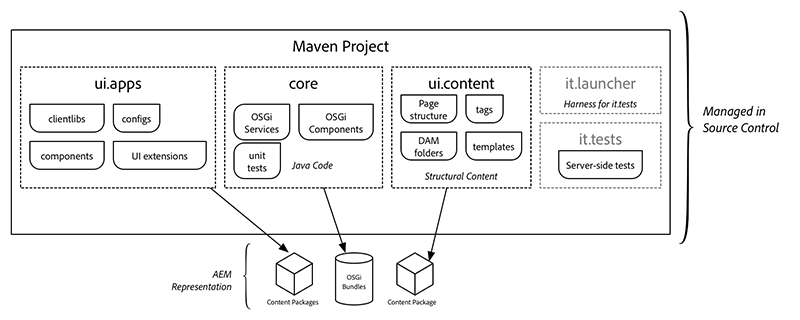
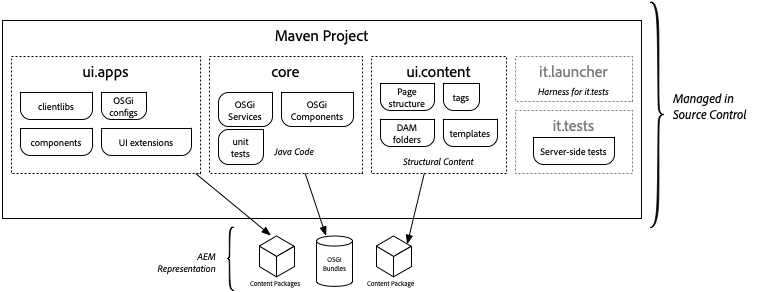
small updates to fix links to helpx and clarify diagram (#201)

Changed region(s): [[0.0, 0.0, 1.0, 0.9863]]

diff --git a/help/getting-started-wknd-tutorial-develop/style-system.md b/help/getting-started-wknd-tutorial-develop/style-system.md
@@ -31,7 +31,7 @@ View the finished code on [GitHub](https://github.com/adobe/aem-guides-wknd) or 
 
 ## Article Template Planning {#component-planning}
 
-In this chapter we will use the [Style System feature](https://helpx.adobe.com/experience-manager/kt/sites/using/style-system-feature-video-use.html) and [Editable Templates](https://helpx.adobe.com/experience-manager/6-4/sites/developing/using/page-templates-editable.html) to create a unified look and feel for the Article Template. To start, we will identify areas of the article mockup that will map to AEM components.
+In this chapter we will use the [Style System feature](https://docs.adobe.com/content/help/en/experience-manager-learn/sites/page-authoring/style-system-feature-video-use.html) and [Editable Templates](https://helpx.adobe.com/experience-manager/6-4/sites/developing/using/page-templates-editable.html) to create a unified look and feel for the Article Template. To start, we will identify areas of the article mockup that will map to AEM components.
 
 ![component planning](assets/chapter-4/wknd-site-component-mappingv2.png)
 
@@ -50,7 +50,7 @@ The [Style System](https://helpx.adobe.com/experience-manager/6-3/release-notes/
 
 The general idea with the Style System is that authors can choose various styles of how a component should look. The "styles" are backed by additional CSS classes that are injected into the outer div of a component. In the client libraries CSS rules are added based on these style classes so that the component changes appearance.
 
-You can find [detailed documentation for Style System here.](https://helpx.adobe.com/experience-manager/6-3/release-notes/style-system-fp.html) There is also a great [video overview for using the Style System](https://helpx.adobe.com/experience-manager/kt/sites/using/style-system-feature-video-use.html).
+You can find [detailed documentation for Style System here.](https://helpx.adobe.com/experience-manager/6-3/release-notes/style-system-fp.html) There is also a great [video overview for using the Style System](https://docs.adobe.com/content/help/en/experience-manager-learn/sites/page-authoring/style-system-feature-video-use.html).
 
 ## Title Component {#title-component}
 
@@ -555,7 +555,7 @@ We can use the Style System with the Layout Container to create a new, **fixed-w
 
 ## Content Fragment Component {#content-fragment}
 
-For the article body we will leverage [AEM Content Fragments](https://helpx.adobe.com/experience-manager/6-5/assets/using/content-fragments.html). Content Fragments are de-coupled from the presentation layer and promote reuse of content across channels. The editorial UI of Content Fragments lends itself to working with large amounts of text. We will add a component to the WKND application to be able to reference Content Fragments into an article page. To view an [overview of Content Fragments click here.](https://helpx.adobe.com/experience-manager/kt/sites/using/content-fragments-feature-video-use.html)
+For the article body we will leverage [AEM Content Fragments](https://helpx.adobe.com/experience-manager/6-5/assets/using/content-fragments.html). Content Fragments are de-coupled from the presentation layer and promote reuse of content across channels. The editorial UI of Content Fragments lends itself to working with large amounts of text. We will add a component to the WKND application to be able to reference Content Fragments into an article page. To view an [overview of Content Fragments click here.](https://docs.adobe.com/content/help/en/experience-manager-learn/sites/content-fragments/content-fragments-feature-video-use.html)
 
 >[!NOTE]
 >

diff --git a/help/getting-started-wknd-tutorial-develop/project-setup.md b/help/getting-started-wknd-tutorial-develop/project-setup.md
@@ -32,7 +32,7 @@ The following is required:
     * [AEM 6.4.2+](https://helpx.adobe.com/experience-manager/6-4/release-notes/sp-release-notes.html)
 4. [Eclipse](https://helpx.adobe.com/experience-manager/6-5/sites/developing/using/aem-eclipse.html) or other IDE
 
-For more information see: [Set up a Local AEM Development Environment](https://helpx.adobe.com/experience-manager/kt/platform-repository/using/local-aem-dev-environment-article-setup.html).
+For more information see: [Set up a Local AEM Development Environment](https://docs.adobe.com/content/help/en/experience-manager-learn/foundation/development/set-up-a-local-aem-development-environment.html).
 
 ## Objective {#objective}
 
@@ -252,8 +252,8 @@ There are six areas to the project that was generated:
 
 * **Parent POM** - deploys maven modules and manages dependency versions
 * **core** - Java bundle containing all core functionality like OSGi services, listeners or schedulers, as well as component-related Java code such as servlets or request filters.
-* **ui.apps** - contains the /apps parts of the project, ie JS&CSS clientlibs, components, runmode specific configs as well as Hobbes-tests
-* **ui.content** - contains structural content and configurations (/content, /conf)
+* **ui.apps** - contains the /apps parts of the project, ie JS&CSS clientlibs, components, and OSGi configs
+* **ui.content** - contains structural content and configurations like editable templates, metadata schemas (/content, /conf)
 * **ui.tests** - Java bundle containing JUnit tests that are executed server-side. This bundle is not to be deployed onto production.
 * **ui.launcher** - contains glue code that deploys the ui.tests bundle (and dependent bundles) to the server and triggers the remote JUnit execution
 
@@ -736,7 +736,7 @@ This tutorial will use the **Eclipse IDE** and the **AEM Developer tools** plugi
 
 >[!NOTE]
 >
-> Note you will need Eclipse or an IDE setup. In this chapter and in the following chapter the Eclipse IDE with AEM Developer tool plugin will be used. **Follow the instructions here [to set up an integrated development environment](https://helpx.adobe.com/experience-manager/kt/platform-repository/using/local-aem-dev-environment-article-setup.html#setup-integrated-env).**
+> Note you will need Eclipse or an IDE setup. In this chapter and in the following chapter the Eclipse IDE with AEM Developer tool plugin will be used. **Follow the instructions here [to set up an integrated development environment](https://docs.adobe.com/content/help/en/experience-manager-learn/foundation/development/set-up-a-local-aem-development-environment.html#set-up-an-integrated-development-environment).**
 
 ## Developer Workflow {#developer-workflow}
 

diff --git a/help/getting-started-wknd-tutorial-develop/pages-templates.md b/help/getting-started-wknd-tutorial-develop/pages-templates.md
@@ -24,7 +24,7 @@ View the finished code on [GitHub](https://github.com/adobe/aem-guides-wknd) or 
 
 >[!NOTE]
 >
-> Note you will need Eclipse or an IDE setup. In this chapter and in the following chapter the Eclipse IDE with AEM Developer tool plugin will be used. **Follow the instructions here [to set up an integrated development environment](https://helpx.adobe.com/experience-manager/kt/platform-repository/using/local-aem-dev-environment-article-setup.html#setup-integrated-env).**
+> Note you will need Eclipse or an IDE setup. In this chapter and in the following chapter the Eclipse IDE with AEM Developer tool plugin will be used. **Follow the instructions here [to set up an integrated development environment](https://docs.adobe.com/content/help/en/experience-manager-learn/foundation/development/set-up-a-local-aem-development-environment.html#set-up-an-integrated-development-environment).**
 
 ## Objective
 
